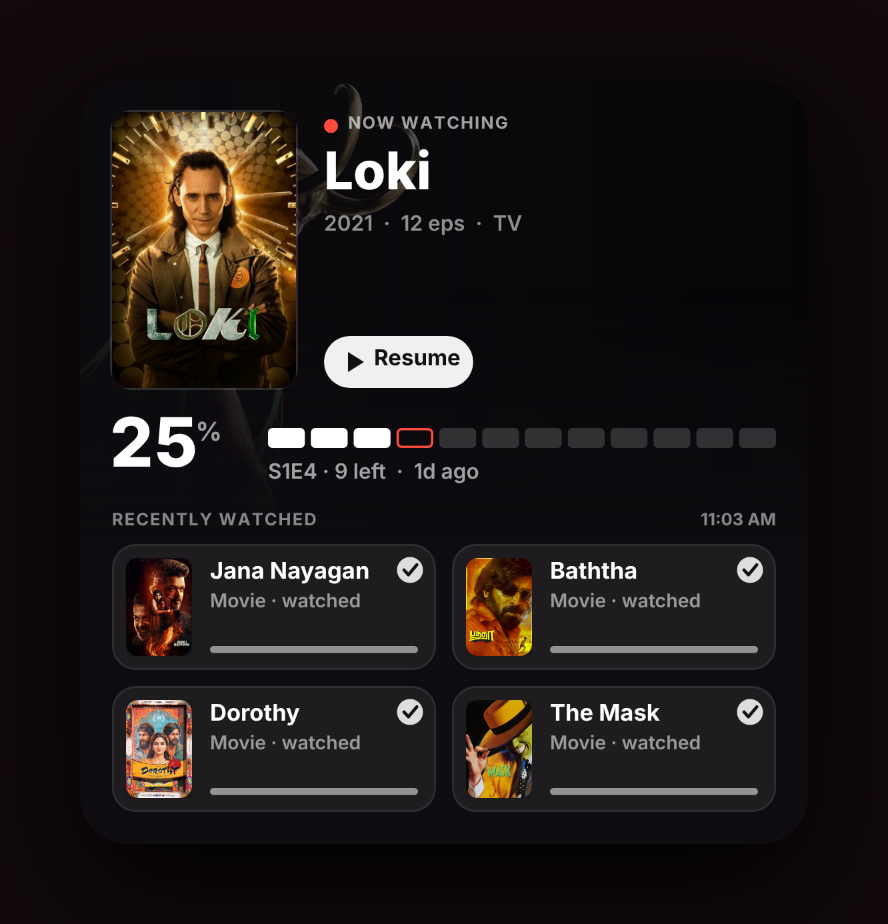
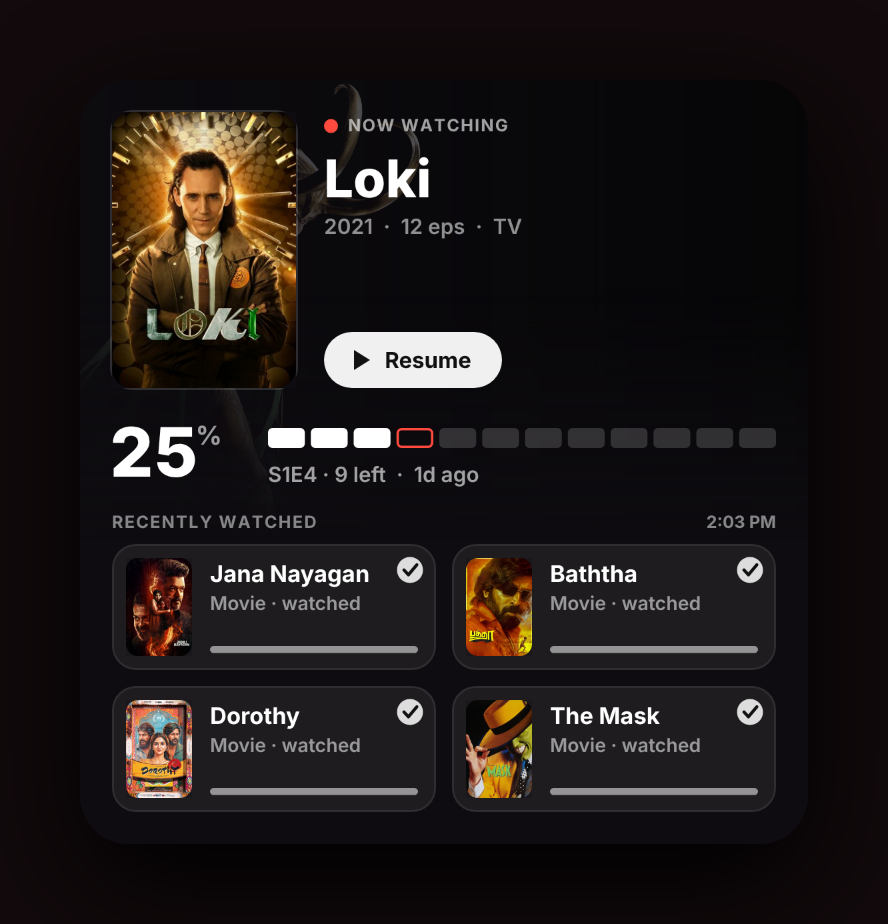
Simkl Big: centre the Resume / Watch again label in its pill, size the pill with room to spare
Claude-Session: https://claude.ai/code/session_01PXGdQy46T6wRnRrF1gL8cR

diff --git a/scriptable/Simkl Big.js b/scriptable/Simkl Big.js
@@ -231,15 +231,19 @@ function drawLarge(hero, rows, updated) {
   ctx.setFont(Font.semiboldSystemFont(10.5)); ctx.setTextColor(white(0.55));
   ctx.drawText(fitLine(meta, 10.5, TW), new Point(TX, y + 5));
 
-  // "▶ Resume" pill (whole widget taps through to it)
-  const pillY = PY + PH - 26, pillLabel = hero.finished ? "Watch again" : "Resume";
-  const pillW = textWidth(pillLabel, 11) + 34;
-  rounded(ctx, TX, pillY, pillW, 26, 13, white(0.94));
+  // "▶ Resume" pill (whole widget taps through to it): icon + label centred as one group
+  const pillLabel = hero.finished ? "Watch again" : "Resume";
+  const PFS = 11, PILL_H = 28, ICON_W = 8, GAP_I = 7, PAD_X = 15;
+  const labelW = Math.ceil(textWidth(pillLabel, PFS) * 1.08);      // a little slack: estimates run short
+  const pillW = PAD_X + ICON_W + GAP_I + labelW + PAD_X, pillY = PY + PH - PILL_H, midY = pillY + PILL_H / 2;
+  rounded(ctx, TX, pillY, pillW, PILL_H, PILL_H / 2, white(0.94));
+  const ix = TX + PAD_X;
   ctx.setFillColor(col("#111111"));
-  const tri = new Path(); tri.move(new Point(TX + 12, pillY + 8)); tri.addLine(new Point(TX + 12, pillY + 18)); tri.addLine(new Point(TX + 20, pillY + 13));
+  const tri = new Path(); tri.move(new Point(ix, midY - 5)); tri.addLine(new Point(ix, midY + 5)); tri.addLine(new Point(ix + ICON_W, midY));
   tri.closeSubpath(); ctx.addPath(tri); ctx.fillPath();
-  ctx.setFont(Font.boldSystemFont(11)); ctx.setTextColor(col("#111111"));
-  ctx.drawText(pillLabel, new Point(TX + 25, pillY + 6));
+  ctx.setFont(Font.boldSystemFont(PFS)); ctx.setTextColor(col("#111111")); ctx.setTextAlignedCenter();
+  ctx.drawTextInRect(pillLabel, new Rect(ix + ICON_W + GAP_I, midY - PFS * 0.6, labelW, PFS * 1.3));   // SF caps centre ≈ 0.6em below line top
+  ctx.setTextAlignedLeft();
 
   // progress: big % + ticks + caption
   const RY = PY + PH + 16;
